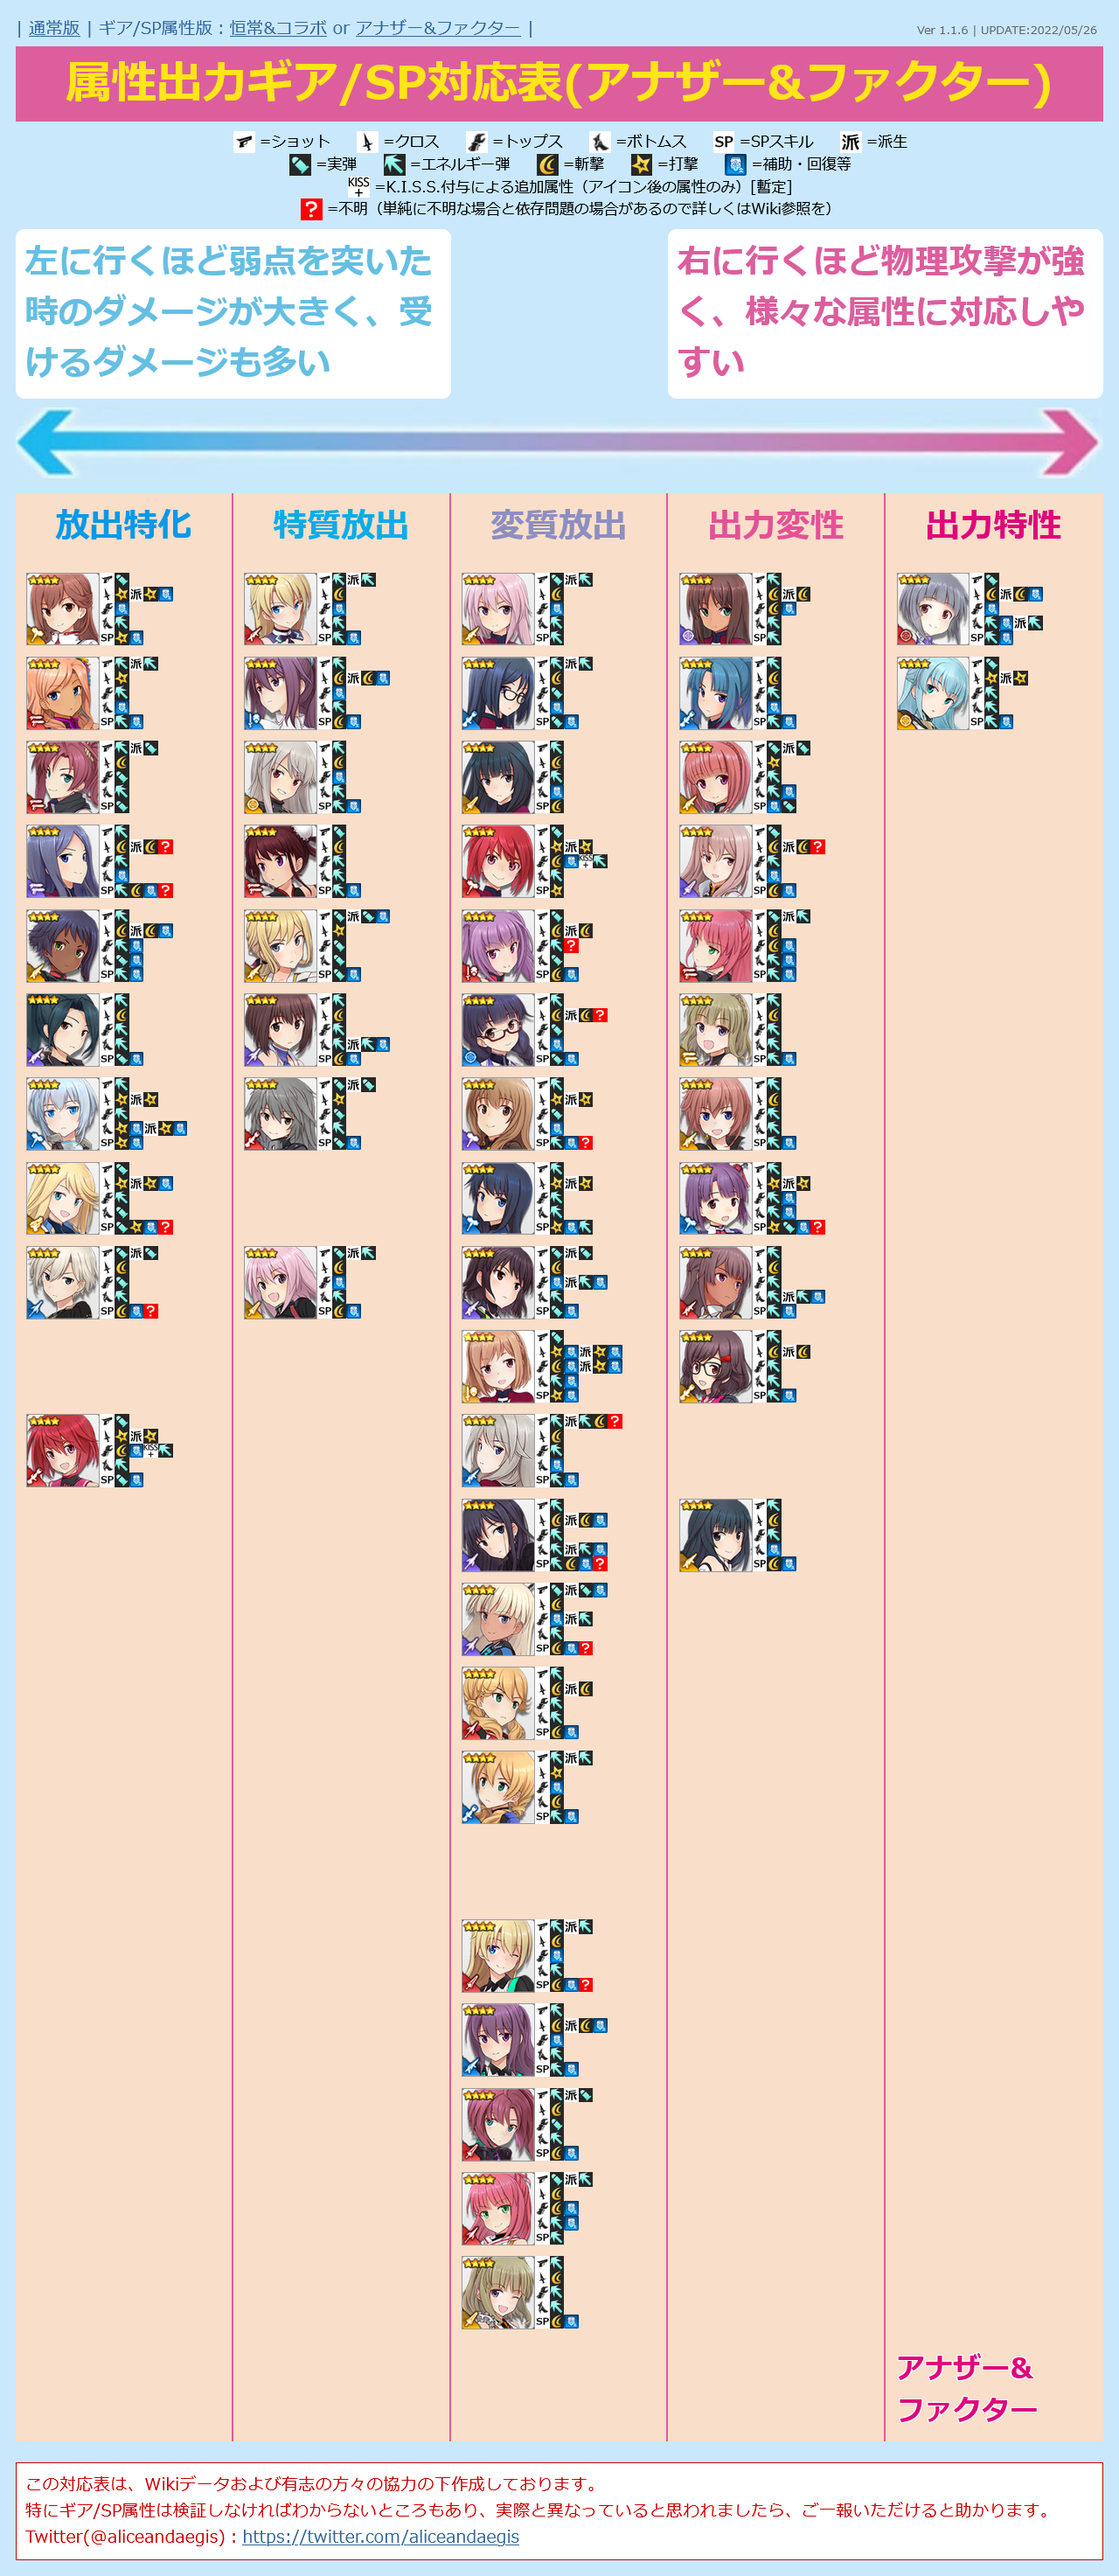
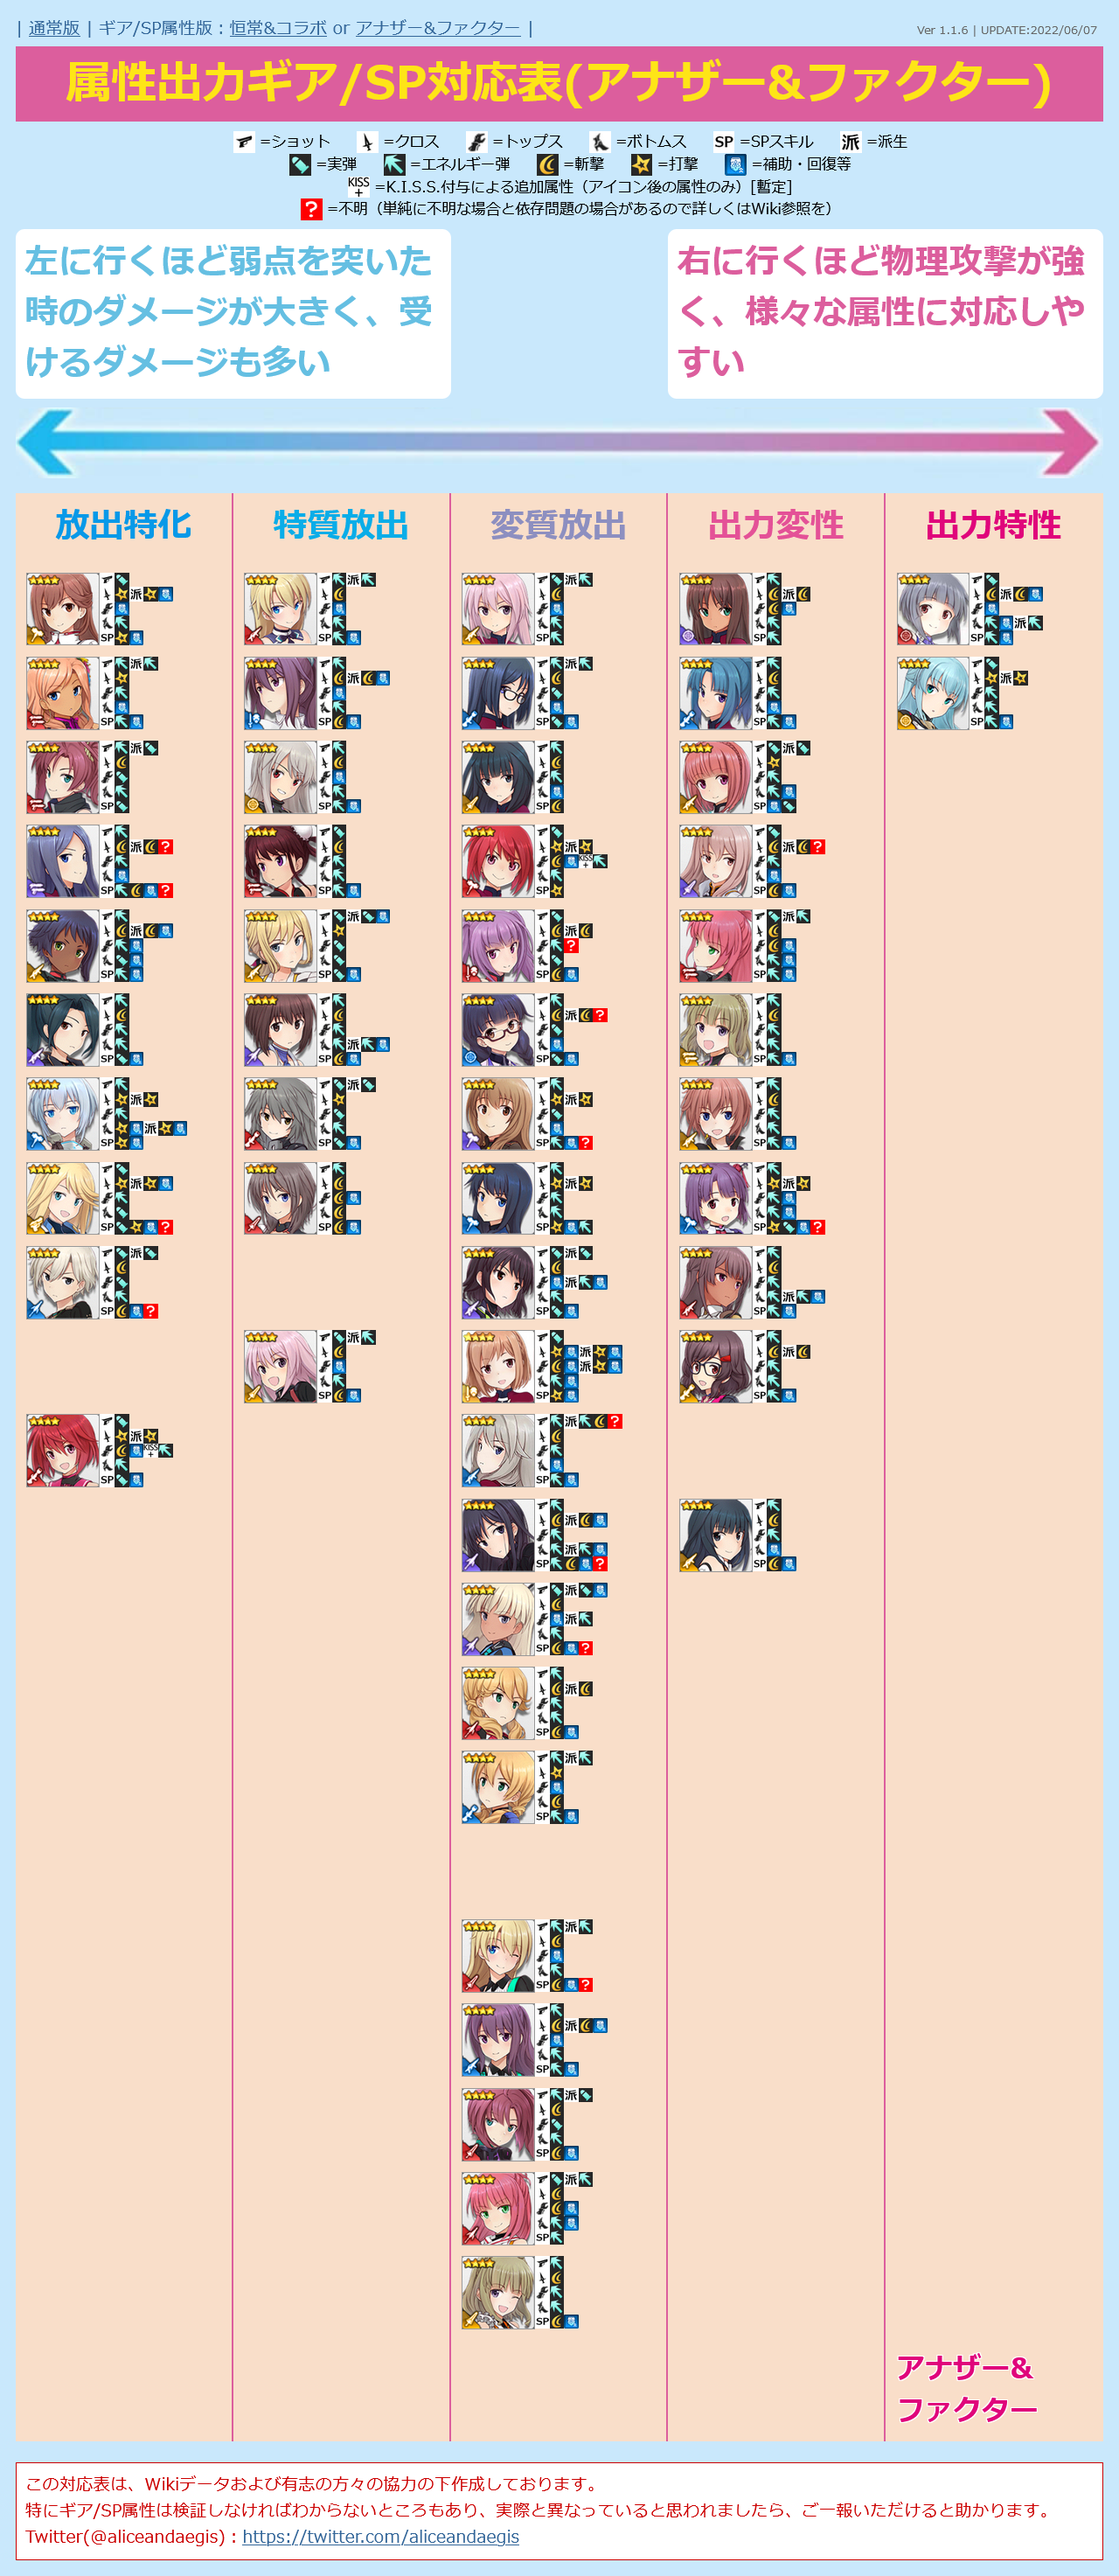
UPDATE charadata
・アナザー 九炉鉄 悠都 / 引導を追加

Changed region(s): [[0.2188, 0.4372, 0.3438, 0.5621]]

diff --git a/alice.html b/alice.html
@@ -12,7 +12,7 @@
   <script>
 
 /* 更新情報 必要に応じて書き換えてください */
-  var version = "Ver 1.1.6 | UPDATE:2022/06/05";
+  var version = "Ver 1.1.6 | UPDATE:2022/06/07";
 
 
 /*
@@ -1403,12 +1403,26 @@
       "name": "九炉鉄 悠都",
       "equip1": "2",
       "equip2": "3",
-      "equip3": "35?",
+      "equip3": "35",
       "equip4": "3",
       "sp": "4",
       "attr": "3",
       "link": "https://wikiwiki.jp/alicegear/%E4%B9%9D%E7%82%89%E9%89%84%E6%82%A0%E9%83%BD",
       "category": ""
+    },
+    {
+      "id": "46",
+      "type": "2",
+      "src": "another-yuto.png",
+      "name": "九炉鉄 悠都 / 引導",
+      "equip1": "2",
+      "equip2": "3",
+      "equip3": "35",
+      "equip4": "3",
+      "sp": "35",
+      "attr": "3",
+      "link": "https://wikiwiki.jp/alicegear/%E4%B9%9D%E7%82%89%E9%89%84%E6%82%A0%E9%83%BD%E5%BC%95%E5%B0%8E",
+      "category": "10"
     },
     {
       "id": "47",
